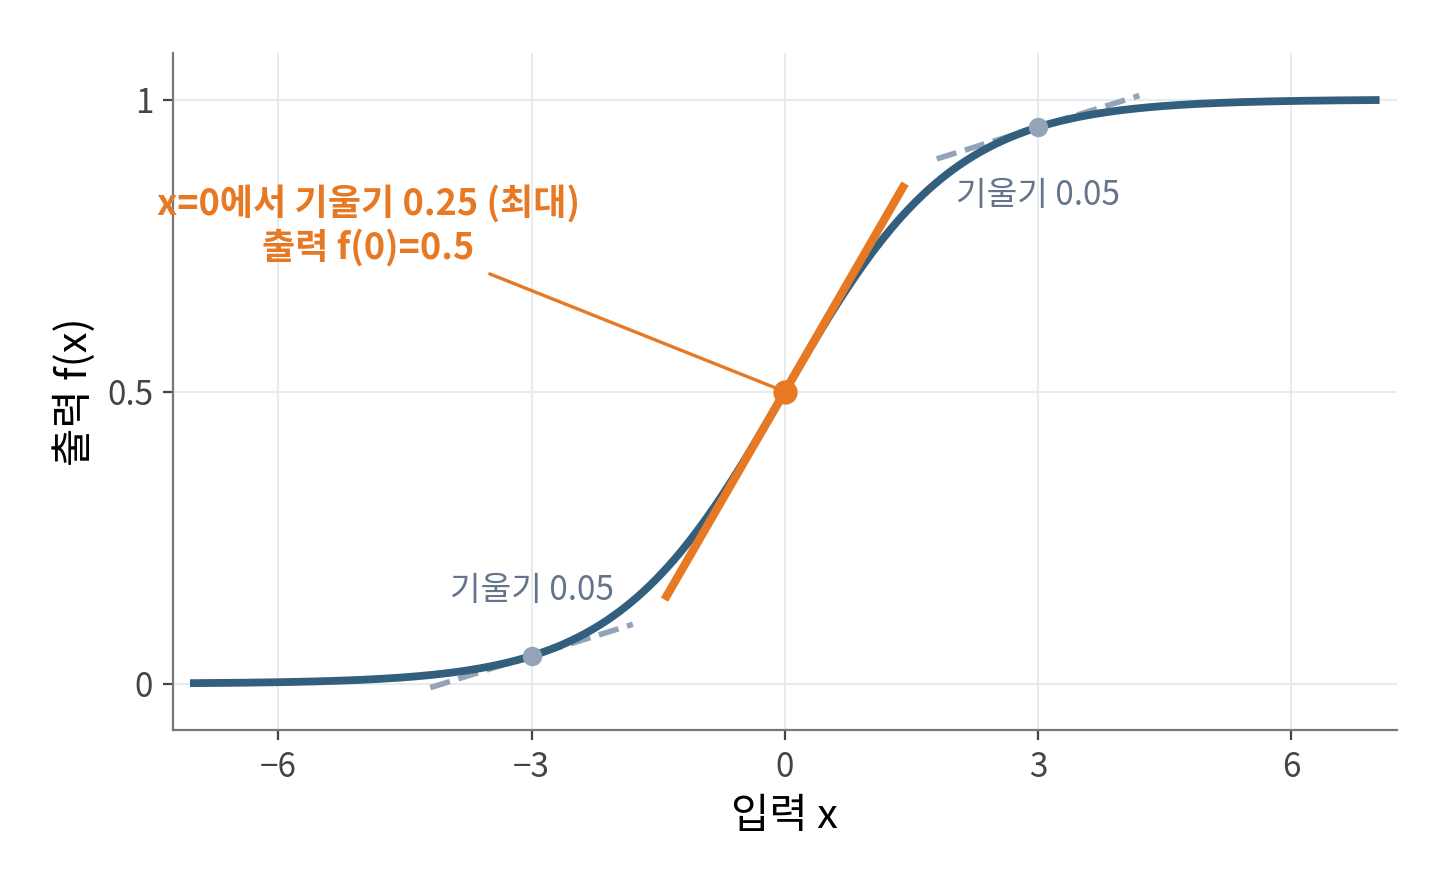
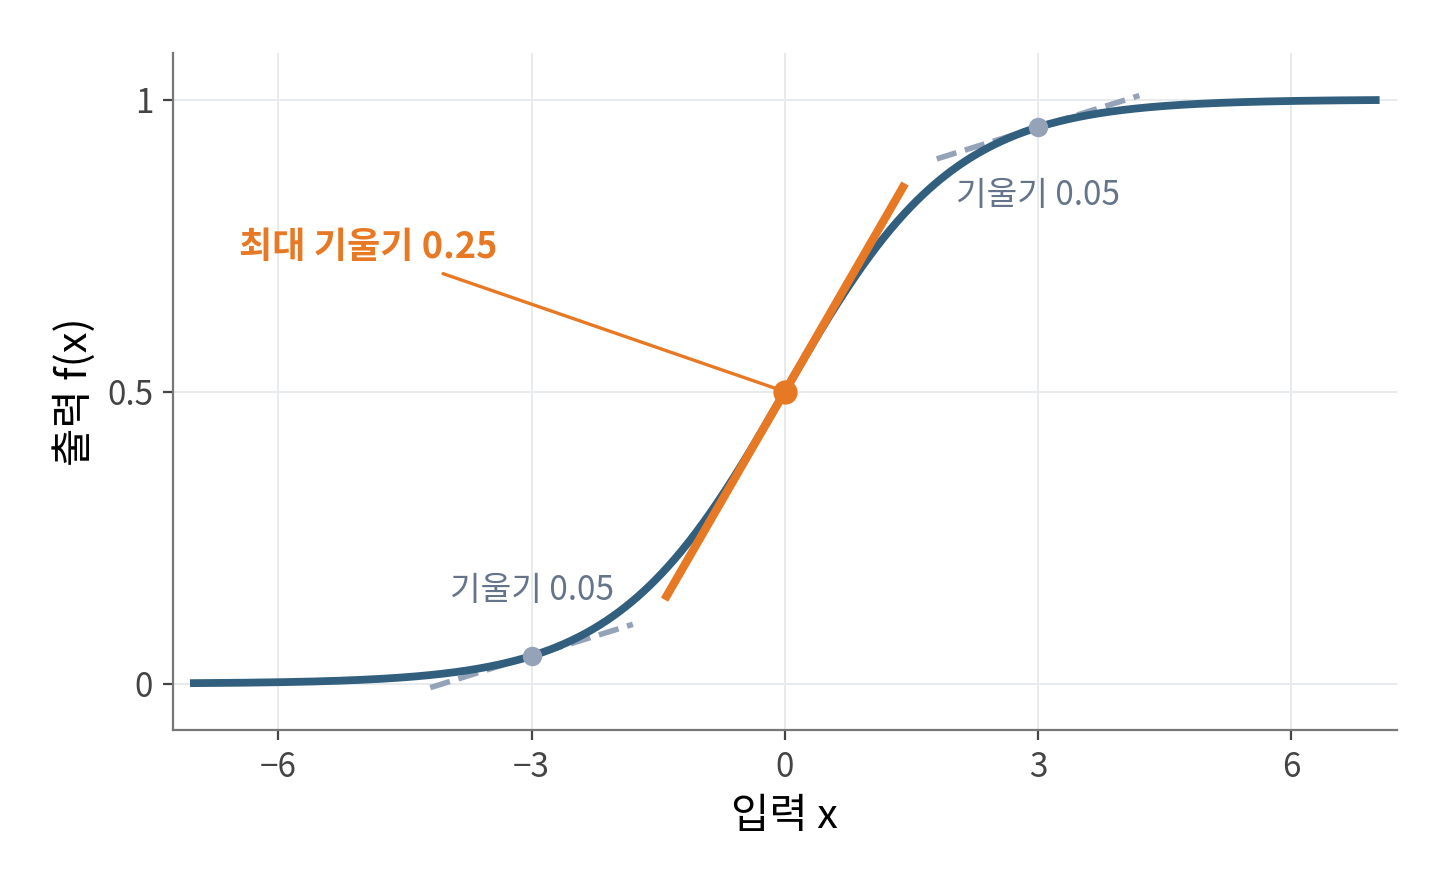
Add vanishing gradient diagram and simplify sigmoid slope label

Changed region(s): [[0.0938, 0.2148, 0.4688, 0.3989], [0.4688, 0.3989, 0.5312, 0.4295]]

diff --git a/scripts/figures/ch07_sigmoid_slope.py b/scripts/figures/ch07_sigmoid_slope.py
@@ -44,7 +44,7 @@ def render():
 
     y0, slope = tangent(ax, 0, 1.4, color=ORANGE, linewidth=3, zorder=5)
     ax.scatter([0], [y0], color=ORANGE, s=60, zorder=6)
-    ax.annotate(f"x=0에서 기울기 {slope:.2f} (최대)\n출력 f(0)=0.5", (0, y0),
+    ax.annotate(f"최대 기울기 {slope:.2f}", (0, y0),
                 xytext=(-150, 48), textcoords="offset points", ha="center",
                 fontsize=13, color=ORANGE, fontweight="bold",
                 arrowprops=dict(arrowstyle="-", color=ORANGE, linewidth=1.2))

diff --git a/site/src/content/notes/Machine Learning｜Deep Learning/deeplearning_7.md b/site/src/content/notes/Machine Learning｜Deep Learning/deeplearning_7.md
@@ -11,7 +11,9 @@ featured: false
 
 ## 1. 기울기 소실이란?
 
-기울기 소실은 역전파로 가중치의 기울기를 구할 때, 층이 많아질수록 입력층에 가까운 가중치의 기울기가 점점 작아져 업데이트가 일어나지 않는 현상입니다. 시그모이드나 tanh함수에서 주로 일어납니다.
+기울기 소실은 역전파로 가중치의 기울기를 구할 때, 층이 많아질수록 입력층에 가까운 가중치의 기울기가 점점 작아져 업데이트가 거의 일어나지 않는 현상입니다. 시그모이드나 tanh 함수에서 주로 일어납니다.
+
+<img src="../../../../public/images/notes/easy-deep-learning-ch06/vanishing-gradient.svg" alt="출력층 쪽에서 입력층 쪽으로 역전파할 때, 각 단계에서 0.25를 곱하면 전달되는 기울기가 1, 0.25, 0.0625, 0.015625로 줄어들고 왼쪽 화살표도 가늘어지는 그림. 가중치는 모두 1인 단순한 예시" width="720" height="300" loading="lazy" />
 
 ## 2. 왜 일어날까
 
